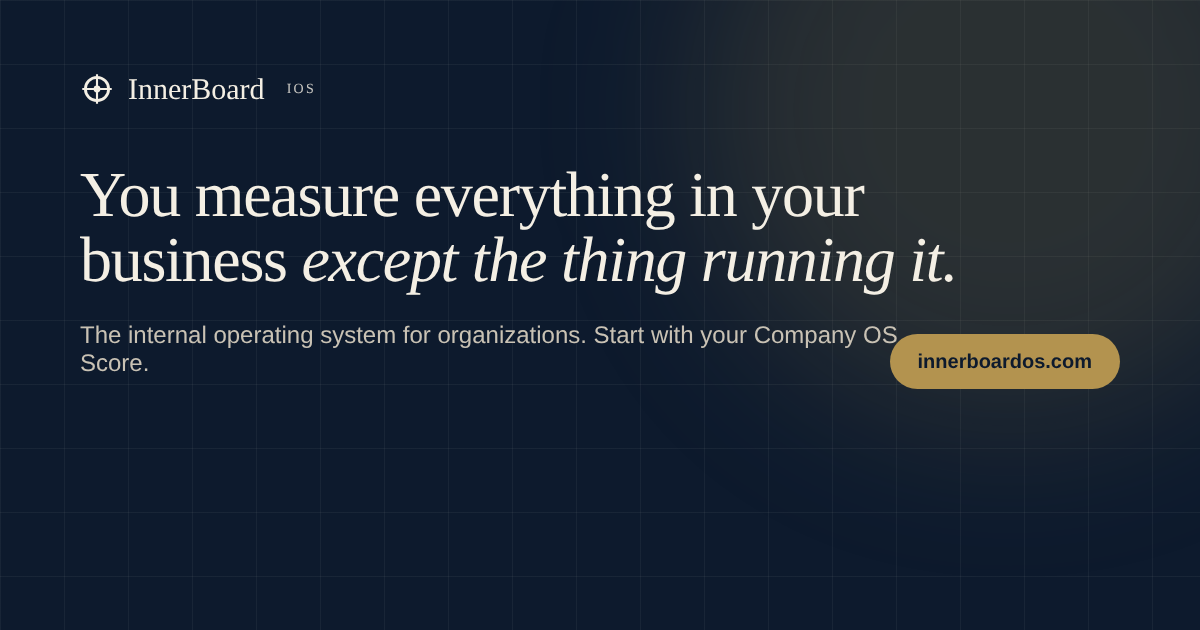
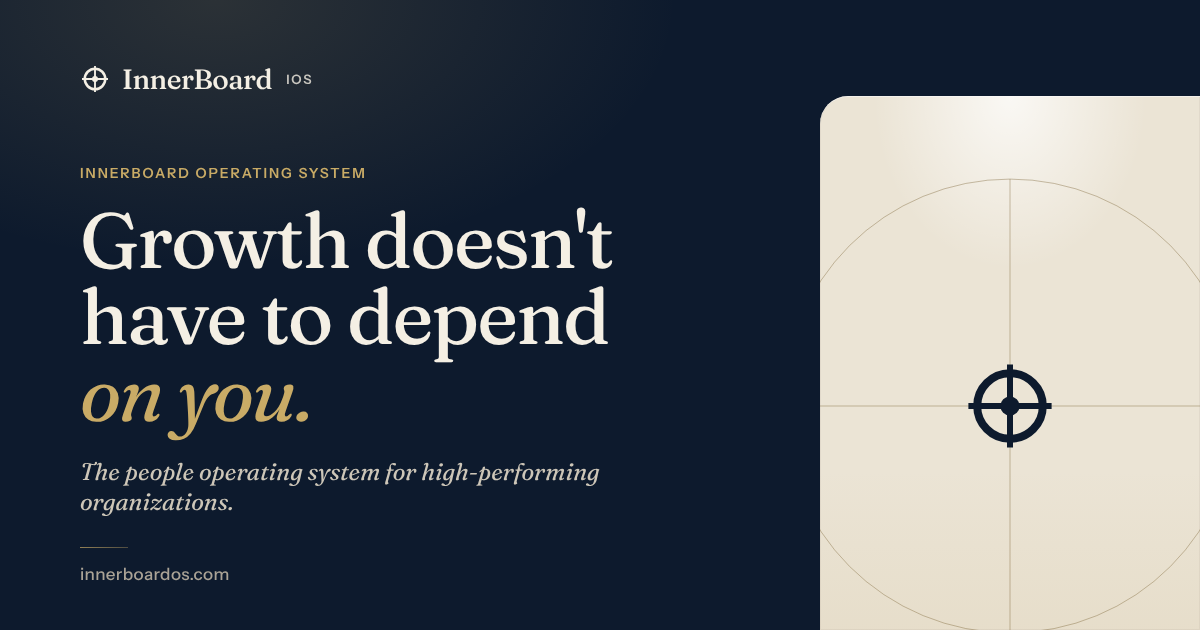
Rebuild the IOS page on the shared system, without a hero plate
The brief's copy, in its order, on the Suite's design system: the Company OS Score scoring itself in a phone that stands alone on the navy in a warm halo (no plate where a photograph used to be, and no camera move onto the sample score), the challenge's ruled columns and stacked argument, the solution's statement with the five rings redrawn and lit row by row, the workflow as five columns with the Develop row and a desk window of the app with previews, the book on its mat with the cover slot kept, the outcome as a lit statement and six outcomes, the audience ledger, partners with a drawn margin rule, and the navy close with the quote. Header and footer rebuilt; the founder name only where the brief puts it.

Claude-Session: https://claude.ai/code/session_016eeJ21GGDZmvVkMmqLCipo

diff --git a/src/styles/global.css b/src/styles/global.css
@@ -444,3 +444,19 @@
 .plate-linen > .lamp { background: radial-gradient(50% 45% at var(--lx, 50%) var(--ly, 0%), rgba(255,255,255,.75), transparent 72%),
   linear-gradient(to top, rgba(179,147,79,.08), transparent 30%); animation: lights 2.2s var(--ease) both; }
 .t-s-quote em, .t-s-pull em { font-style: italic; font-weight: 400; color: var(--accent); }
+/* The footer paints its own linen with ink tokens; its eyebrows keep the ink faint while the page
+ * above it is still navy (the gold eyebrow rule keys off the page theme). */
+[data-theme="navy"] .site-footer .eyebrow { color: var(--fg-3); }
+/* On a phone the footer's two columns size to their links, so "Get your Company OS Score" holds one
+ * line beside the short anchors of "On this site" (below 360 the system's even columns stay). */
+@media (min-width: 360px) and (max-width: 734px) { .ftr-cols { grid-template-columns: max-content minmax(0, 1fr); column-gap: clamp(28px, 9vw, 48px); } }
+/* Without the script the page cannot cross fade: a page that opens on navy rests on cream instead, and
+ * its navy bleeds paint themselves (.no-js [data-tone="navy"] in motion.css), as the Suite's pages do. */
+html.no-js[data-theme="navy"] {
+  --bg: #f4efe4; --fg: #1f1d1a; --fg-2: #3d3a35; --fg-3: #5c574f;
+  --line: rgba(31,29,26,.12); --line-strong: rgba(31,29,26,.22); --accent: #6e5724;
+  --btn-line: rgba(31,29,26,.24); --btn-hover: rgba(31,29,26,.05); --lit-off: rgba(31,29,26,.22); --focus: #6e5724; --dark: 0;
+}
+html.no-js[data-theme="navy"] main .eyebrow { color: var(--fg-3); }
+html.no-js main [data-tone="navy"] { --line-strong: rgba(244,239,228,.32); --btn-hover: rgba(244,239,228,.06); --dark: 1; }
+html.no-js main [data-tone="navy"] .eyebrow { color: #c9ab66; }

diff --git a/README.md b/README.md
@@ -1,14 +1,19 @@
 # InnerBoard IOS (innerboardos.com)
 
-The marketing site for InnerBoard IOS, the internal operating system for
-organizations. One page, built to the InnerBoard IOS Logan Development Brief
-(October 15, 2026, "D3" in the build tracker) in the approved section order:
+The marketing site for InnerBoard IOS, the people operating system for
+high-performing organizations. One page, built to the InnerBoard IOS Logan
+Development Brief (October 15, 2026, "D3" in the build tracker) in the approved
+section order:
 
 Hero · Challenge · Solution (diagram 1) · How It Works (diagram 2) · The
 Thinking Behind IOS (the book) · Outcome · Who It's For · Partners · Next Step ·
 closing brand statement. Plus `/privacy` and `/terms`.
 
-**Stack:** Astro 5 (static output), Tailwind 4, no framework runtime. Deploys on
+**Stack:** Astro 5 (static output), no framework runtime. The design system is
+the one built for innerboardsuite.com (hand CSS tokens, a vanilla TypeScript
+motion library, the phone and window frames), ported here and remapped to navy,
+cream and muted gold. Tailwind 4 stays installed (its preflight and the
+wordmark's few utilities); no layout number on any page is a Tailwind utility. Deploys on
 Vercel as a static site; `vercel.json` carries the cache and security headers.
 
 ```bash
@@ -16,24 +21,31 @@ npm install
 npm run dev        # localhost:4321
 npm run build      # dist/
 npm run sweep      # after a build: fails on any em/en dash or "iOS" in the output
+npm run desk2x     # once, by hand: the four 2x window captures from the raw 2880 PNGs (needs sharp)
 ```
 
 ## Where things are
 
 | Path | What |
 | --- | --- |
+| `src/pages/index.astro` | The page and all of its copy, in the brief's order, with its layout CSS (every class prefixed `io-`). Nine sections, each with a `data-tone` (navy or cream) that the page cross fades between. |
+| `src/components/IosHeroPlate.astro` | The hero's object: the linen plate from column 9 to the edge, and the real Company OS Score capture standing on it in a phone, scoring itself (a tap scene) and hanging past the plate. |
+| `src/components/IosPhilosophy.astro` | Diagram 1: five linked hairline rings (Leadership, Culture, Behavior, Results, Valuation) around IOS, an orbit drawn as the reader scrolls, and the legend with the brief's five definitions. |
+| `src/components/IosWorkflow.astro` | Diagram 2: Assess, Develop (with the Personal Power and Social Influence row), Embed, Measure, Certify as five points on one drawn line, then the Company OS Score, the Track and the Role Blueprint in a browser window with captions and a pager. Never merged with diagram 1. |
+| `src/components/IosBookStill.astro` | The book on the site's one linen mat. Drop the approved cover at `public/images/replaceable-cover.jpg` and change the `src`; nothing else moves. |
+| `src/components/Header.astro`, `Footer.astro` | The fixed header (five anchors, the gold Company OS Score pill, the mobile sheet) and the linen footer. |
+| `src/components/PhoneFrame.astro`, `WindowFrame.astro`, `Geo.astro`, `Arrow.astro`, `Mark.astro` | The shared system's components, copied verbatim from the Suite. |
+| `src/components/Wordmark.astro`, `Icon.astro` | The IOS wordmark and the hairline icons. |
+| `src/layouts/Base.astro` | The shell: `theme` (`navy` on the homepage, `cream` on the legal pages) is written on `<html>` so the first paint is right; fonts, meta, structured data, `site.ts`. |
+| `src/styles/global.css` | The system's tokens (grid, type, spacing, shadows, easings), the two themes, surfaces, frames, header, footer; the IOS additions at the end under `/* IOS */`. |
+| `src/styles/motion.css` | The system's motion CSS: reveals, line rise, lit words, the tone cross fade, scenes, drawn lines. Reduced motion, high contrast and no JS are handled here. |
+| `src/scripts/site.ts` | The system's motion library (copied verbatim from the Suite at the port): reveals, page tone, header tone and hide, the scene engine, previews, drawn lines, parallax, tilt, the mobile menu, analytics events, UTM passthrough. |
 | `src/config/links.ts` | Every destination on the site, in one place. The pending ones from the tracker's "Links to Confirm" tab are marked. |
-| `src/pages/index.astro` | The page and all of its copy. |
-| `src/components/CircleDiagram.astro` | Diagram 1: five linked circles, Leadership, Culture, Behavior, Results, Valuation, with the brief's definitions. |
-| `src/components/WorkflowDiagram.astro` | Diagram 2: Assess, Develop (Personal Power, Social Influence), Embed, Measure, Certify. Never merged with diagram 1. |
-| `src/components/AssessmentPhone.astro` | The Company OS Score on a phone, with the book's own statements, labelled illustrative. |
-| `brief/` | The development brief and the approved visual reference. |
-| `src/components/BookCover.astro` | The book. Drop the approved cover at `public/images/replaceable-cover.jpg` and point the `img` at it. |
-| `src/components/Scorecard.astro` | The Company OS Score, drawn, in the hero. Numbers are server rendered and count up on load. |
-| `src/styles/global.css` | Tokens (navy, cream, muted gold), fonts, flat buttons, line cards, section rhythm (`sec-s`, `sec-m`, `sec-l`). |
-| `src/styles/motion.css` | Word reveals and scroll-lit text. Reduced motion and high contrast honoured. |
+| `public/app/` | The six real Practice captures the page uses (the Company OS Score scored and its result on a phone and on a desk, the Track, the Role Blueprint) and the four `-2x` window files. Nothing else. |
+| `scripts/desk2x.mjs` | Writes the `-2x` window files from the raw captures (run by hand; skips any raw that does not match the shipped 1600 file). |
 | `scripts/sweep.mjs` | The copy check run by `npm run sweep`. |
-| `src/scripts/site.ts` | Entrances, the header, the mobile menu, analytics events, UTM passthrough. |
+| `public/og-image.png` | The share card: the hero's line and the brief's closing line on navy, the linen plate with the mark geometry. |
+| `brief/` | The development brief and the approved visual reference. |
 
 ## Analytics events
 
@@ -62,18 +74,27 @@ under the campaign.
 
 - The founder's title under the closing quote reads "Founder, InnerBoard" until confirmed (`SITE.founderTitle`).
 - The real Replaceable cover file; the drawn one at `public/images/replaceable-cover.svg` is a placeholder.
+- The brief's executive photograph for the hero: the hero carries the real Company OS Score on a linen stage instead, and there is no slot for a photograph there.
 - Whether the existing assessment collects email and sends a follow up. The site adds no gate of its own.
-- The hero carries the drawn Company OS Score where the brief's executive photograph goes. The closing section has a marked slot (an HTML comment in `index.astro`) for the brief's mountain photograph; no licensed image was available, so the close is flat navy until one is supplied. By Leah's direction nothing of her appears on the sites; the closing quote keeps her name as the brief requires.
+- The closing section has an empty `.io-panorama` slot (with an HTML comment in `index.astro`) for the brief's mountain photograph: when a licensed image is approved it becomes that element's `background-image` and nothing else changes. Until then the close is flat navy with a horizon lamp. By Leah's direction nothing of her appears on the sites; her name appears only on the book's author line, under the closing quote and in the footer credit.
 
 ## Decisions made here
 
-- **Copy is the brief's, word for word**, in the brief's section order. Where the visual reference and the brief differ, the brief wins.
-- **The page reads like the live innerboardos.com**: numbered section eyebrows, one large serif statement per section, hairline lists instead of card grids, the argument in order.
-- **Design restraint.** Navy, cream and muted gold only. Two navy fills (Solution and Next Step), the rest cream. No glows, blobs, textures or watermarks. Flat 8px buttons, line cards, cream footer.
-- **Diagram 1 and diagram 2 stay separate**, as the brief requires. Diagram 2 is five columns with gold top rules and the Personal Power / Social Influence row under Develop.
+- **Copy is the brief's, word for word**, in the brief's section order. Where the visual reference and the brief differ, the brief wins. The rebuild removed only text that was not the brief's: three eyebrows now take the brief's own words ("The InnerBoard IOS workflow", "Built for organizations ready to grow", "Let's build what's next"), the invented paragraph above diagram 1 and the five short labels inside its circles are gone (the brief's "Leadership → Culture → Behavior → Results → Valuation" line stands in their place), the "From insight to execution" eyebrow is gone, the footer's blurb is the brief's closing line, and the drawn Company OS Score mock and its invented statements are gone. The Measure paragraph's last sentence is a builder instruction and stays off the page.
+- **The live site's rhythm on the Suite's system**: numbered section eyebrows, one large serif statement per section, the stacked one line argument, navy and cream alternating. The page itself paints nothing: each section carries `data-tone` and the body cross fades between navy and cream as the reader arrives (navy, cream, navy, cream, cream, navy, cream, cream, navy, then the linen footer). Each navy section has one lamp, its light from a different corner.
+- **Real product, never a drawn mock.** The hero and the workflow show the actual Company OS Score captures from Practice, in the system's phone and window frames, playing short scenes (a tap, a cursor, a camera lean). The site never writes the sample score in text, captions, alts or labels; the captures may show it.
+- **Diagram 1 and diagram 2 stay separate**, as the brief requires: the philosophy is five interlocking rings on navy with an orbit and the brief's definitions in the legend; the workflow is five points on one drawn line on cream with the Personal Power and Social Influence row under Develop.
+- **Navy, cream and muted gold only.** Gold `#b3934f` for filled buttons, the drawn workflow line and lamps; gold-2 `#c9ab66` for eyebrows, italics and hairlines on navy; gold-ink `#6e5724` for italics and links on cream. One linen mat (the book), one linen plate (the hero), pill buttons.
+- **Without JavaScript** the page rests on cream and the four navy sections paint themselves (the cross fade needs the script); everything is visible, frames show their first screen.
+- **The book is one flat plane turned in perspective**, its binding drawn along the left edge, and the mat clips its shadows. A `preserve-3d` spine (the spec's first version) lost the book's lower half in Chromium whenever the top of the book was scrolled out of view.
+- **The window serves the 1600 px captures on 1x screens** and the `-2x` files on 2x screens. The window is 792 px wide, so the 1600 file is already twice its width; the system's `WindowFrame` (kept verbatim) picks the 2880 file only on high density screens. The spec's wish for the `-2x` file at 1x would add about 50 KB per frame for no visible gain.
+- **No founder in the structured data.** The JSON-LD names the organization only, so her name appears nowhere but the three places the brief puts it (as on the Suite).
+- **`site.ts` is the Suite's file as of the port.** The Suite has since changed when its dark sections take over (75% of the viewport); the IOS page keeps the 50% line its acceptance was written for. Bring later Suite changes over deliberately, not by copying the file.
 
 ## Copy rules enforced
 
 No em or en dashes anywhere in the output (`npm run sweep`). "InnerBoard IOS"
 is spelled with a capital I and OS, never "iOS". No testimonials, metrics,
-pricing, trial offers or client logos beyond what the documents approve.
+pricing, trial offers or client logos beyond what the documents approve. No
+sample score in any text, caption, alt or label. The only text the rebuild adds
+is the window captions and image descriptions, each naming a screen.
